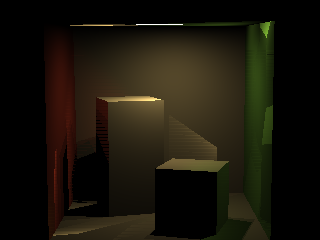
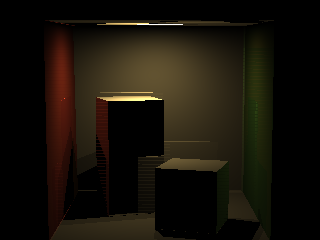
More bug fixes

diff --git a/WorkingProject/main.cpp b/WorkingProject/main.cpp
@@ -18,12 +18,13 @@
 
 #include <tiny_obj_loader.h>
 
+
 using namespace glm;
 
 const float EPS = 1e-5f;
 
-const int MAX_PATHS = 1000; // 32
-const int MAX_BOUNCE = 100; // 4
+const int MAX_PATHS = 32; // 32
+const int MAX_BOUNCE = 4; // 4
 
 struct Ray {
     vec4 o;
@@ -146,11 +147,7 @@ int generateCameraRays(std::vector<Ray> &rays, std::vector<int> &pixCoord, const
     rays.reserve(numRays);
     pixCoord.reserve(numRays);
 
-    bool makeStates = false;
-    if (raysStates.empty()) {
-        raysStates.reserve(numRays);
-        makeStates = true;
-    }
+    raysStates.resize(numRays);
 
     // Y
     // ^
@@ -158,11 +155,8 @@ int generateCameraRays(std::vector<Ray> &rays, std::vector<int> &pixCoord, const
     // O---> X
     for (int h = height - 1; h >= 0; --h) {
         for (int w = 0; w < width; ++w) {
-            if (makeStates) {
-                raysStates[h * width + w] = initSampler(h * width + w, path, SEED); // изменить на path
-            } else {
-                ++raysStates[h * width + w].sampleIdx;
-            }
+            raysStates[h * width + w] = initSampler(h * width + w, path, SEED);
+
             SamplerState &currentState = raysStates[h * width + w];
 
             float u = float(w + random<SampleDimension::ePixelX>(currentState)) / float(width);
@@ -399,15 +393,17 @@ int main() {
     std::vector<uint8_t> pixels(numPixels * 4);
     std::vector<vec4> colors(numPixels, vec4(0.0f));
 
-    std::vector<SamplerState> raysStates;
-
     for (int path = 0; path < MAX_PATHS; ++path) {
 
         std::clog << "\rPaths left: " << MAX_PATHS - path << "    " << std::flush;
+
         // generate primary rays
         std::vector<std::vector<Ray>> raysBuffers(2);
         std::vector<std::vector<int>> pixelCoordBuffers(2); // stores pixel coord as int: (h * width + w)
         std::vector<std::vector<vec3>> pathWeightBuffers(2);
+
+        std::vector<SamplerState> raysStates;
+
         int numRays = generateCameraRays(raysBuffers[0], pixelCoordBuffers[0], cam, width, height, raysStates, path);
         pathWeightBuffers[0].resize(numRays);
         pathWeightBuffers[0].assign(numRays, vec3{1.0f});
@@ -432,6 +428,8 @@ int main() {
             // eval material
             for (int i = 0; i < numRays; ++i) {
                 if (isecs[i].shapeId == 1) {
+                    ++raysStates[i].depth;
+
                     const int h = height - 1 - pixelCoordBuffers[currentBufferId][i] / width;
                     const int w = pixelCoordBuffers[currentBufferId][i] % width;
 
@@ -534,6 +532,8 @@ int main() {
             pathWeightBuffers[nextBufferId].clear();
             for (int i = 0; i < numRays; ++i) {
                 if (isecs[i].shapeId == 1) {
+                    ++raysStates[i].depth;
+
                     const int indexA = world.indices[isecs[i].primitiveId];
                     const int indexB = world.indices[isecs[i].primitiveId + 1];
                     const int indexC = world.indices[isecs[i].primitiveId + 2];

diff --git a/WorkingProject/ourRandom.hpp b/WorkingProject/ourRandom.hpp
@@ -1,13 +1,14 @@
 #pragma once
 
 #include <iostream>
+#include <fstream>
 #include "glm/glm.hpp"
 
 using namespace glm;
 
 extern const int MAX_PATHS;
 extern const int MAX_BOUNCE;
-const int SEED = 137;
+const uint32_t SEED = 137;
 
 enum random_generator {
     Default, LinearCongruential, MersenneTwister, SubtractWithCarry, ShuffleOrder, Halton, Sobol
@@ -32,6 +33,7 @@ struct SamplerState {
     uint32_t seed;
     uint32_t sampleIdx;
     uint32_t depth = 0;
+    uint32_t now = 0;
 };
 
 inline static SamplerState initSampler(uint32_t linearPixelIndex, uint32_t pixelSampleIndex, uint32_t seed) {
@@ -50,6 +52,8 @@ inline float HaltonRand(uint32_t value, const uint32_t base) {
         result = result + cur_pow * float(value % base);
         value /= base;
     }
+    static std::ofstream fout("../input.txt");
+    fout << result << '\n';
 
     return result;
 }
@@ -77,10 +81,11 @@ inline float random(SamplerState &state) {
         static const uint32_t primeNumbers[32] = {2, 3, 5, 7, 11, 13, 17, 19, 23, 29, 31, 37, 41, 43, 47, 53, 59, 61,
                                                   67, 71, 73, 79, 83, 89, 97, 101, 103, 107, 109, 113, 127, 131};
 
-        const uint32_t dimension = uint32_t(Dim) + state.depth * uint32_t(SampleDimension::eNUM_DIMENSIONS);
+        const uint32_t dimension = uint32_t(Dim) + state.depth;
         const uint32_t base = primeNumbers[dimension & 31u];
-        ++state.depth;
-        return HaltonRand(state.seed + state.sampleIdx + state.depth * MAX_PATHS, base);
+        ++state.now;
+
+        return HaltonRand((state.seed + state.sampleIdx + state.depth) * MAX_BOUNCE + state.now, base);
     } else if (random_generator_type == Sobol) {
         return SobolRandom(state.seed, state.depth);
     }
